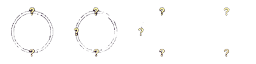
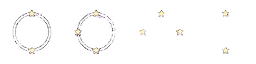
Wire the confused-fading re-roll and the ogre attack sheets
The attack sheets would not process. An attack or state sheet is
validated against the list of creatures, and ogre-quake is not a
creature, so all three were turned away as unrecognised.

The shape was never the problem. This pipeline has always *written*
axethrower-disarmed_attack.png, and the ogre idle sheets are already
named that way and pass -- because the pass that handles them validates
nothing. Only the two validating passes rejected it. They now read
ogre-quake as the ogre carrying something different, matching the
longest creature they can so a hyphenated creature id would still win.

Every previously committed asset is byte-identical afterwards, which is
the check that matters for a change to shared name handling.

confused-fading is re-rolled out of question marks into the same ring of
stars as confused, so the two now read as one status wearing out rather
than as two different ones. It is still the faintest of the six: each
fading overlay keeps 88% (frozen) and 77% (burning) of its full
version's drawn area, and this one keeps 40%. Usable and much improved,
and noted in ART_PROMPTS as the one to dim less if it is ever rolled
again.

diff --git a/tools/prepare_art.py b/tools/prepare_art.py
@@ -856,9 +856,12 @@ def process_unit_states(force: bool) -> tuple[int, list[str], list[str]]:
             unknown.append(f"{path.name}: no idea which state '{base}' is")
             continue
         name = re.sub(r"[^a-z0-9]+", "-", " ".join(words[:-1])).strip("-")
-        if name not in known:
+        split = split_variant(name, known)
+        if split is None:
             unknown.append(f"{path.name} -> '{name}'")
             continue
+        creature, suffix = split
+        name = "-".join(x for x in (creature, suffix) if x)
 
         keyed, cut_out = remove_background(Image.open(path))
         if not cut_out:
@@ -1120,6 +1123,33 @@ def build_frame_strip(keyed: Image.Image, w: int, h: int) -> tuple[Image.Image |
     return sheet, ""
 
 
+def split_variant(name: str, known: set[str]) -> tuple[str, str] | None:
+    """
+    Read `ogre-quake` as the ogre carrying something different, not as an
+    unknown creature.
+
+    The output side of this pipeline has always used that shape --
+    `axethrower-disarmed_attack.png` -- but it could only be reached through a
+    parenthetical tag mapped by VARIANTS, so a file named for its variant
+    directly was rejected. The idle sheets in `art_src/units` are named exactly
+    that way and pass, because that pass validates nothing; the attack and state
+    sheets do validate, and turned it away.
+
+    Matches the longest creature it can, so a creature whose own id contained a
+    hyphen would still win against a shorter one. Returns None when nothing
+    matches, which is a genuinely unrecognised name and should be reported.
+    """
+    if name in known:
+        return name, ""
+    best: tuple[str, str] | None = None
+    for creature in known:
+        if name.startswith(f"{creature}-"):
+            suffix = name[len(creature) + 1 :]
+            if suffix and (best is None or len(creature) > len(best[0])):
+                best = (creature, suffix)
+    return best
+
+
 def process_unit_effects(force: bool) -> tuple[int, list[str], list[str]]:
     """
     Per-creature attack animations, sliced the same way the effect strips are.
@@ -1156,11 +1186,12 @@ def process_unit_effects(force: bool) -> tuple[int, list[str], list[str]]:
         base, variant = normalise_stem(path.stem)
         base = re.sub(r"\s*attack$", "", base).strip()
         name = re.sub(r"[^a-z0-9]+", "-", base).strip("-")
-        if name not in known:
+        split = split_variant(name, known)
+        if split is None:
             unknown.append(f"{path.name} -> '{name}'")
             continue
-        if variant:
-            name = f"{name}-{variant}"
+        creature, suffix = split
+        name = "-".join(x for x in (creature, suffix, variant) if x)
         keyed, cut_out = remove_background(Image.open(path))
         if not cut_out:
             problems_early.append(f"{name}: background would not key")

diff --git a/ART_PROMPTS.md b/ART_PROMPTS.md
@@ -890,3 +890,42 @@ and worth asking for by name elsewhere.
 **`conquest-orc`, `points-orc` and `points-human` — keep.** The only blemish in
 the three is the blank banner across the top of `points-human`, which is a crop
 away from gone.
+
+### Status overlays and ogre variants: done
+
+All seven status overlays are drawn and processed, and all three ogre club
+variants now have both an idle and an attack sheet.
+
+**burning / burning-fading** and **frozen / frozen-fading** pair exactly: the
+fading version is visibly the same ring decaying, which is what makes the swap
+read as one effect running down rather than as two different pictures.
+
+**confused-fading** was re-rolled out of question marks and into the same ring of
+stars as `confused`, which fixes the idiom -- the two now read as one status
+wearing out rather than as two different ones. Worth recording that it is the
+faintest of the six by some way. Measured as the share of the frame actually
+drawn, each fading version keeps this much of its full version:
+
+| pair | fading keeps |
+|---|---|
+| frozen | 88% |
+| burning | 77% |
+| confused | **40%** |
+
+At 4% of the frame drawn it is the sparsest overlay in the set, and on a busy
+tile it will be the hardest to spot. Usable, and a large improvement on what it
+replaced -- but if anything here is ever re-rolled again this is the one, and the
+note is simply to dim it less. `burning-fading` is the reference for how far to
+take it.
+
+**The ogre attack sheets** read as intended: the fiery club leaves a flame arc,
+the exploding club destroys its own head on impact -- which is the self-damage in
+the mechanic, drawn -- and the quake club cracks the ground outward. All three
+keep the base ogre's body and pose language, so they read as the same creature
+carrying something different rather than as three creatures.
+
+Naming worth recording, since it caught the pipeline out: an attack or state
+sheet for a variant is named `<creature>-<variant> attack.<ext>`, matching both
+the idle sheets in `art_src/units` and the `axethrower-disarmed_attack.png` this
+pipeline has always written. That form is now accepted on input as well as
+produced on output.
